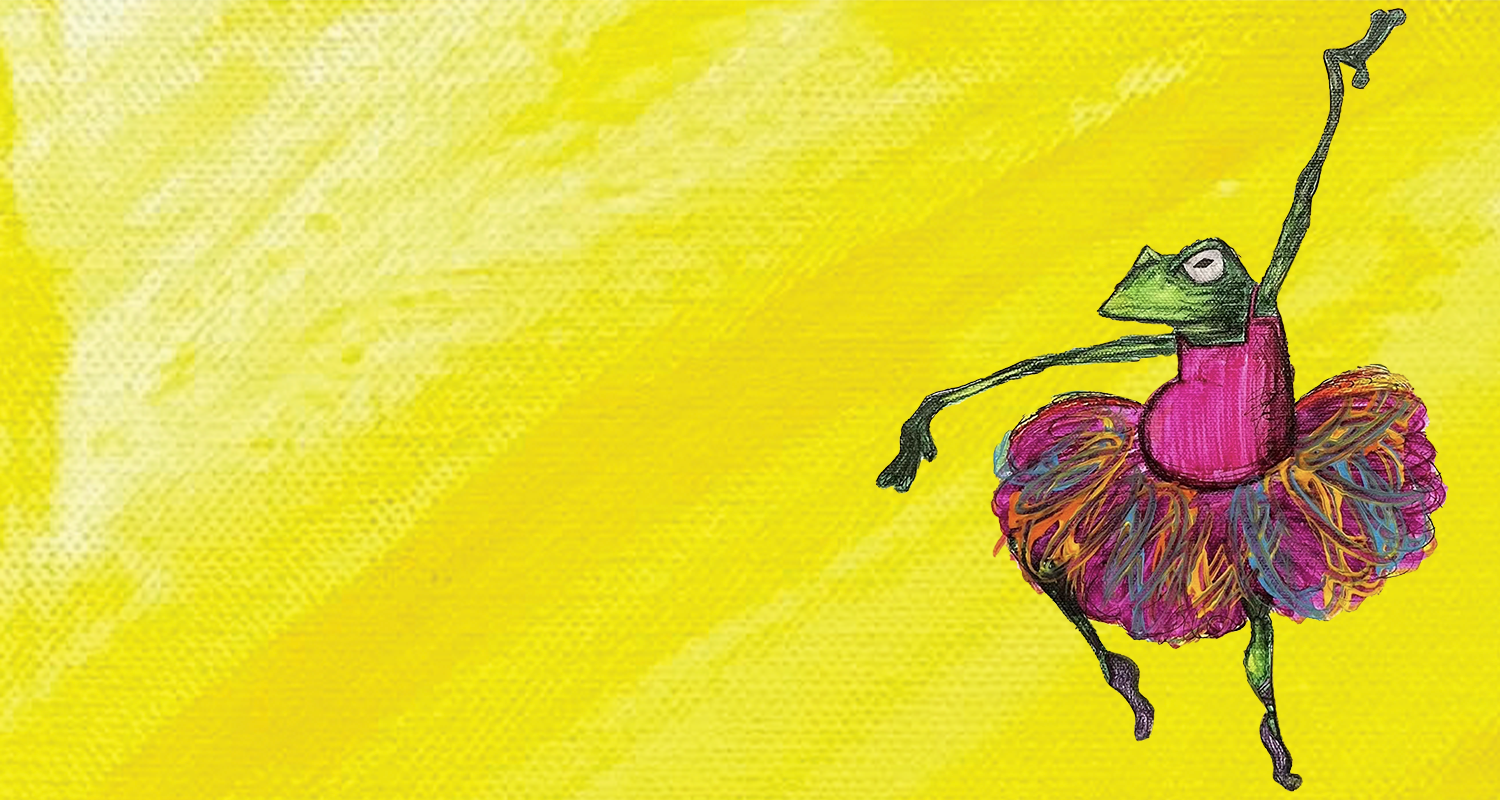
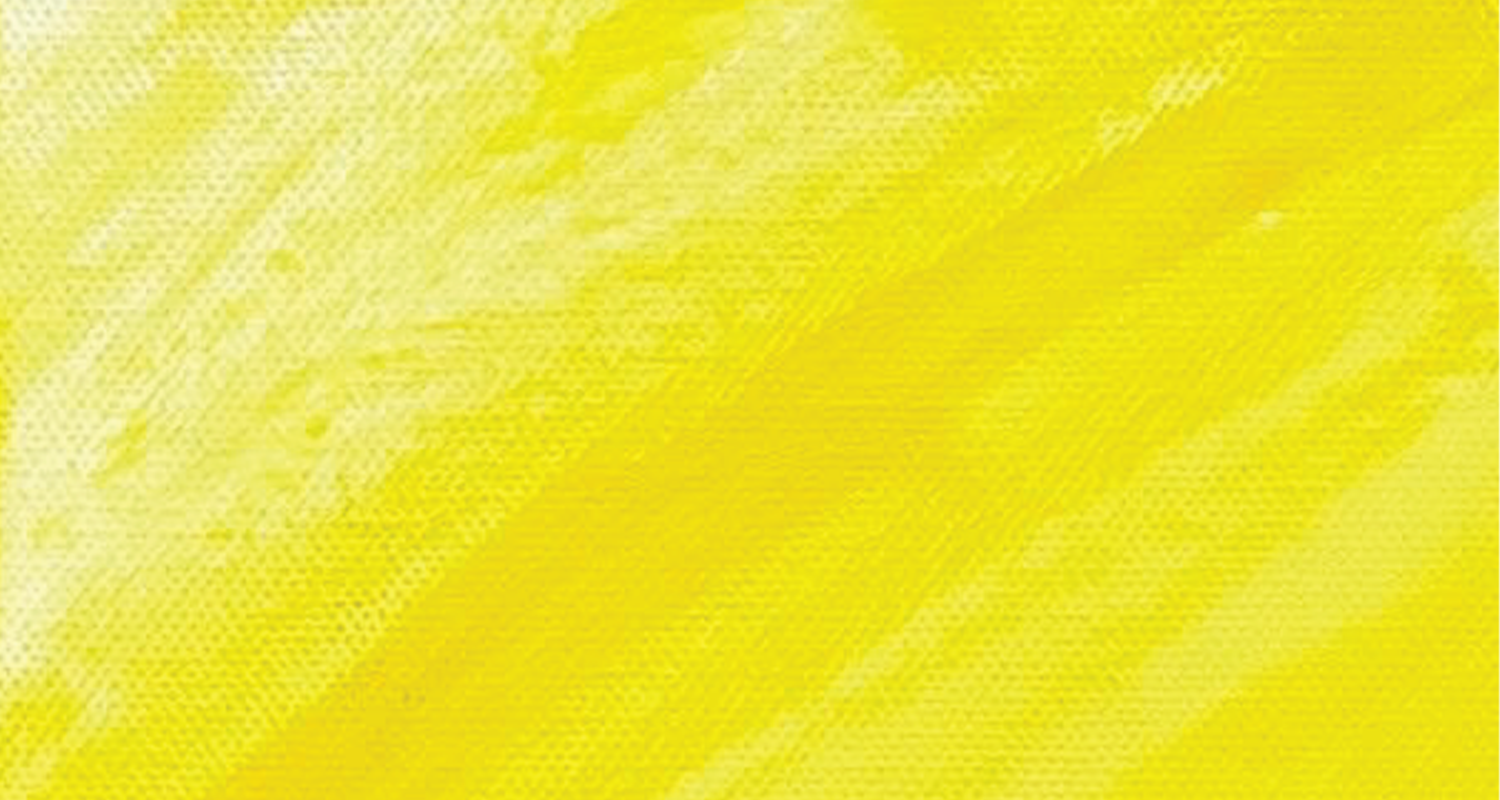
changed background and isolated frog

diff --git a/index.html b/index.html
@@ -1,44 +1,69 @@
 <!DOCTYPE html>
 <html lang="en">
-<head>
-    <meta charset="UTF-8">
-    <meta name="viewport" content="width=device-width, initial-scale=1.0">
-    <link href="main.css" rel="stylesheet"> 
-    <link rel="preconnect" href="https://fonts.googleapis.com">
-<link rel="preconnect" href="https://fonts.gstatic.com" crossorigin>
-<link href="https://fonts.googleapis.com/css2?family=Exo+2:ital,wght@0,100..900;1,100..900&family=Lexend+Giga:wght@100..900&family=Parkinsans:wght@300..800&family=Roboto:ital,wght@0,100..900;1,100..900&display=swap" rel="stylesheet">
+  <head>
+    <meta charset="UTF-8" />
+    <meta name="viewport" content="width=device-width, initial-scale=1.0" />
+    <link href="main.css" rel="stylesheet" />
+    <link rel="preconnect" href="https://fonts.googleapis.com" />
+    <link rel="preconnect" href="https://fonts.gstatic.com" crossorigin />
+    <link
+      href="https://fonts.googleapis.com/css2?family=Exo+2:ital,wght@0,100..900;1,100..900&family=Lexend+Giga:wght@100..900&family=Parkinsans:wght@300..800&family=Roboto:ital,wght@0,100..900;1,100..900&display=swap"
+      rel="stylesheet"
+    />
     <title>Document</title>
-</head>
-<body> 
- <div class="container">
-    <div class="text-container">
-    <h1>Graphic Designer</h1>
-    <h2>Alexis Dinsmore</h2>
-    </div> 
+  </head>
+  <body>
+    <div class="container">
+      <div class="text-container">
+        <h1>Graphic Designer</h1>
+        <h2>Alexis Dinsmore</h2>
+      </div>
 
-    <div class="icon-container
-"?xml version="1.0" encoding="UTF-8"?>
-<svg id="pintrest" data-name="pintrest" xmlns="http://www.w3.org/2000/svg" viewBox="0 0 85.13 83.29">
-  <defs>
-  </defs>
-  <path class="cls-1" d="M17.85,40.82c0-13.17,11.29-23.85,25.2-23.85s25.2,10.68,25.2,23.85-11.29,23.85-25.2,23.85c-3.05,0-5.96-.51-8.66-1.44,1.72-4.35,3.37-8.69,4.98-13.07,1.72,1.16,3.89,1.88,6.66,1.88,5.75,0,11.78-3.59,13.29-10.68,1.89-8.9-5.64-17.38-16.23-17.38-4.45,0-8.83,1.71-12.13,4.38-3.29,2.7-5.68,6.57-5.68,11.05,0,2.19.7,4.59,2.35,6.19,1.16,1.1,3.05,1.1,4.21,0,1.12-1.06,1.16-2.81.07-3.9-2.31-2.74.74-7.29,2.94-9.1,2.28-1.88,5.33-3.01,8.24-3.01,7.19,0,11.5,5.54,10.45,10.68-.91,4.24-4.31,6.16-7.47,6.16-2.42,0-3.72-.96-4.56-2.22.46-1.37.84-2.6,1.12-3.59.56-2.09.91-4.55-1.05-6.12-1.47-1.16-3.19-.89-4.24-.41-1.96.92-3.12,3.11-3.12,5.3,0,1.23.21,3.15.95,5.13-1.89,5.41-3.96,10.78-6.03,16.12-6.77-4.28-11.22-11.57-11.22-19.85l-.07.03ZM43.02,11.33c-17.18,0-31.13,13.21-31.13,29.5s13.92,29.5,31.13,29.5,31.13-13.21,31.13-29.5-13.92-29.5-31.13-29.5Z"/>
-</svg>
+      <div class="icon-container" ?xml version="1.0" encoding="UTF-8" ?>
+        <svg
+          id="pintrest"
+          data-name="pintrest"
+          xmlns="http://www.w3.org/2000/svg"
+          viewBox="0 0 85.13 83.29"
+        >
+          <defs></defs>
+          <path
+            class="cls-1"
+            d="M17.85,40.82c0-13.17,11.29-23.85,25.2-23.85s25.2,10.68,25.2,23.85-11.29,23.85-25.2,23.85c-3.05,0-5.96-.51-8.66-1.44,1.72-4.35,3.37-8.69,4.98-13.07,1.72,1.16,3.89,1.88,6.66,1.88,5.75,0,11.78-3.59,13.29-10.68,1.89-8.9-5.64-17.38-16.23-17.38-4.45,0-8.83,1.71-12.13,4.38-3.29,2.7-5.68,6.57-5.68,11.05,0,2.19.7,4.59,2.35,6.19,1.16,1.1,3.05,1.1,4.21,0,1.12-1.06,1.16-2.81.07-3.9-2.31-2.74.74-7.29,2.94-9.1,2.28-1.88,5.33-3.01,8.24-3.01,7.19,0,11.5,5.54,10.45,10.68-.91,4.24-4.31,6.16-7.47,6.16-2.42,0-3.72-.96-4.56-2.22.46-1.37.84-2.6,1.12-3.59.56-2.09.91-4.55-1.05-6.12-1.47-1.16-3.19-.89-4.24-.41-1.96.92-3.12,3.11-3.12,5.3,0,1.23.21,3.15.95,5.13-1.89,5.41-3.96,10.78-6.03,16.12-6.77-4.28-11.22-11.57-11.22-19.85l-.07.03ZM43.02,11.33c-17.18,0-31.13,13.21-31.13,29.5s13.92,29.5,31.13,29.5,31.13-13.21,31.13-29.5-13.92-29.5-31.13-29.5Z"
+          />
+        </svg>
 
-<?xml version="1.0" encoding="UTF-8"?>
-<svg id="email" data-name="email" xmlns="http://www.w3.org/2000/svg" viewBox="0 0 89.92 88.45">
-  <defs>
-  </defs>
-  <path class="cls-1" d="M13.82,27.01c0-4.32,3.3-7.79,7.43-7.79h44.46c4.09,0,7.43,3.51,7.43,7.79v31.21c0,4.32-3.3,7.79-7.43,7.79H21.24c-4.09,0-7.43-3.51-7.43-7.79v-31.21ZM21.24,23.1c-2.06,0-3.7,1.75-3.7,3.91v.85l25.94,16.37,25.94-16.37v-.85c0-2.16-1.67-3.91-3.7-3.91H21.24ZM69.4,32.39l-17.46,11.02,17.46,11.3v-22.32ZM69.28,59.22l-20.91-13.52-4.91,3.1-4.91-3.1-20.91,13.52c.42,1.72,1.91,2.88,3.58,2.88h44.46c1.67,0,3.15-1.19,3.58-2.88M17.51,54.71l17.46-11.3-17.46-11.02v22.32Z"/>
-</svg>
+        <?xml version="1.0" encoding="UTF-8"?>
+        <svg
+          id="email"
+          data-name="email"
+          xmlns="http://www.w3.org/2000/svg"
+          viewBox="0 0 89.92 88.45"
+        >
+          <defs></defs>
+          <path
+            class="cls-1"
+            d="M13.82,27.01c0-4.32,3.3-7.79,7.43-7.79h44.46c4.09,0,7.43,3.51,7.43,7.79v31.21c0,4.32-3.3,7.79-7.43,7.79H21.24c-4.09,0-7.43-3.51-7.43-7.79v-31.21ZM21.24,23.1c-2.06,0-3.7,1.75-3.7,3.91v.85l25.94,16.37,25.94-16.37v-.85c0-2.16-1.67-3.91-3.7-3.91H21.24ZM69.4,32.39l-17.46,11.02,17.46,11.3v-22.32ZM69.28,59.22l-20.91-13.52-4.91,3.1-4.91-3.1-20.91,13.52c.42,1.72,1.91,2.88,3.58,2.88h44.46c1.67,0,3.15-1.19,3.58-2.88M17.51,54.71l17.46-11.3-17.46-11.02v22.32Z"
+          />
+        </svg>
 
-<?xml version="1.0" encoding="UTF-8"?>
-<svg id="instagram" data-name="instagram" xmlns="http://www.w3.org/2000/svg" viewBox="0 0 104.66 96.55">
-  <defs>
-  </defs>
-  <path class="cls-1" d="M23.17,38.1c0-7.71,6.55-13.97,14.66-13.97h23.43c8.08,0,14.66,6.26,14.66,13.97v22.37c0,7.71-6.55,13.97-14.66,13.97h-23.43c-8.08,0-14.66-6.26-14.66-13.97v-22.37ZM37.8,29.7c-4.85,0-8.79,3.75-8.79,8.38v22.37c0,4.63,3.95,8.38,8.79,8.38h23.43c4.85,0,8.79-3.75,8.79-8.38v-22.37c0-4.63-3.95-8.38-8.79-8.38h-23.43ZM60.08,35.88c0-1.55,1.32-2.78,2.93-2.78h.03c1.62,0,2.93,1.26,2.93,2.78s-1.32,2.78-2.93,2.78h-.03c-1.62,0-2.93-1.26-2.93-2.78ZM49.53,40.89c-4.85,0-8.79,3.75-8.79,8.38s3.95,8.38,8.79,8.38,8.79-3.75,8.79-8.38-3.95-8.38-8.79-8.38ZM34.9,49.26c0-7.71,6.55-13.97,14.66-13.97s14.66,6.26,14.66,13.97-6.55,13.97-14.66,13.97-14.66-6.26-14.66-13.97Z"/>
-</svg>
-</div>
-</body>
-
-
+        <?xml version="1.0" encoding="UTF-8"?>
+        <svg
+          id="instagram"
+          data-name="instagram"
+          xmlns="http://www.w3.org/2000/svg"
+          viewBox="0 0 104.66 96.55"
+        >
+          <defs></defs>
+          <path
+            class="cls-1"
+            d="M23.17,38.1c0-7.71,6.55-13.97,14.66-13.97h23.43c8.08,0,14.66,6.26,14.66,13.97v22.37c0,7.71-6.55,13.97-14.66,13.97h-23.43c-8.08,0-14.66-6.26-14.66-13.97v-22.37ZM37.8,29.7c-4.85,0-8.79,3.75-8.79,8.38v22.37c0,4.63,3.95,8.38,8.79,8.38h23.43c4.85,0,8.79-3.75,8.79-8.38v-22.37c0-4.63-3.95-8.38-8.79-8.38h-23.43ZM60.08,35.88c0-1.55,1.32-2.78,2.93-2.78h.03c1.62,0,2.93,1.26,2.93,2.78s-1.32,2.78-2.93,2.78h-.03c-1.62,0-2.93-1.26-2.93-2.78ZM49.53,40.89c-4.85,0-8.79,3.75-8.79,8.38s3.95,8.38,8.79,8.38,8.79-3.75,8.79-8.38-3.95-8.38-8.79-8.38ZM34.9,49.26c0-7.71,6.55-13.97,14.66-13.97s14.66,6.26,14.66,13.97-6.55,13.97-14.66,13.97-14.66-6.26-14.66-13.97Z"
+          />
+        </svg>
+      </div>
+      <div class="frog-container">
+        <img src="images/frogisolated.png" alt="frog" />
+      </div>
+    </div>
+  </body>
 </html>

diff --git a/main.css b/main.css
@@ -1,5 +1,5 @@
 body{
-  background-image: url("background.png");
+  background-image: url("images/background.png");
   background-repeat: no-repeat; /* Prevents tiling */
   background-size: cover; /* Scales the image to cover the entire viewport */
   background-position: center; /* Centers the image */
@@ -28,11 +28,14 @@ svg
         grid-template-columns: repeat(12, 1fr);
         grid-template-rows: 100px 40px 40px;
         grid-template-areas: 
-            "t t t t t t . . . . . ."
-            ". . . . . . . . . . . ."
-            "i i i i . . . . . . . .";
+            "t t t t t t . . f f f f"
+            ". . . . . . . . f f f f"
+            "i i i i i i . . f f f f";
     }
 
+  .frog-container {
+      grid-area: f;
+  }
     .text-container {
         grid-area: t;
     }
@@ -41,5 +44,5 @@ svg
         grid-area: i;
         display: grid;
         grid-template-columns: 1fr 1fr 1fr;
-        grid-template-rows:  
+        grid-template-rows: 1fr 1fr;
     }
